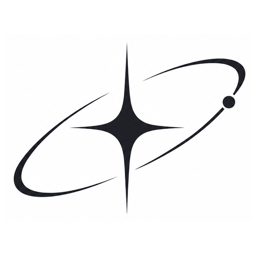
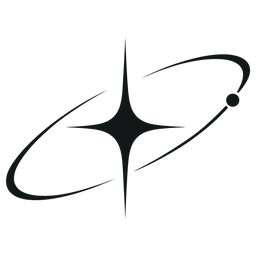
update assets and resolve review comments

Changed region(s): [[0.0, 0.1875, 1.0, 0.8438], [0.4375, 0.1562, 0.5312, 0.4688]]

diff --git a/index.html b/index.html
@@ -7,12 +7,13 @@
   <meta name="description" content="Aethoshi is an independent studio making simple, offline apps for small businesses. Our first app is Parchi, a billing app for clinics, shops and salons.">
   <meta name="theme-color" content="#00716c">
   <link rel="icon" type="image/png" href="assets/favicon.png">
+  <link rel="apple-touch-icon" href="assets/apple-touch-icon.png">
   <link rel="stylesheet" href="assets/style.css">
 </head>
 <body>
   <header class="site">
     <div class="wrap">
-      <a class="brand" href="./"><img class="mark" src="assets/aethoshi-symbol.png" alt="" width="34" height="34"><span class="wordmark">Aethoshi</span></a>
+      <a class="brand" href="./"><picture><source srcset="assets/aethoshi-symbol-light.png" media="(prefers-color-scheme: dark)"><img class="mark" src="assets/aethoshi-symbol.png" alt="" width="34" height="34"></picture><span class="wordmark">Aethoshi</span></a>
       <nav aria-label="Main">
         <a href="./" aria-current="page">Home</a>
         <a href="./#about">About</a>
@@ -32,7 +33,7 @@
         <a class="button" href="parchi/">Meet Parchi</a>
         <a class="button ghost" href="#about">About us</a>
       </div>
-      <div class="hero-logo"><img class="mark" src="assets/aethoshi-logo.png" alt="Aethoshi Studio logo" width="720" height="586"></div>
+      <div class="hero-logo"><picture><source srcset="assets/aethoshi-logo-light.png" media="(prefers-color-scheme: dark)"><img class="mark" src="assets/aethoshi-logo.png" alt="Aethoshi Studio logo" width="900" height="697"></picture></div>
     </div>
   </div>
 
@@ -64,14 +65,18 @@
         have no time to learn complicated software.</p>
 
       <div class="name-box">
-        <img class="mark" src="assets/aethoshi-symbol.png" alt="" width="96" height="96">
+        <picture><source srcset="assets/aethoshi-symbol-light.png" media="(prefers-color-scheme: dark)"><img class="mark" src="assets/aethoshi-symbol.png" alt="" width="96" height="96"></picture>
         <div>
           <p class="word">Aethoshi</p>
-          <p class="muted">The name comes from <em>aether</em>, the old Greek
-            word for the clear, bright air above the clouds. That's how we want
-            our apps to feel: light and clear, and out of your way, so the work
-            gets done and you get back to your customers. The logo is a star on
-            its orbit: one small, steady light in that clear sky.</p>
+          <p class="muted">The name joins two words from two languages.
+            <em>Aether</em> (Greek <span lang="el">αἰθήρ</span>) is the clear,
+            bright sky above the clouds. <em>Hoshi</em> (Japanese
+            <span lang="ja">星</span>) means star. Together they make a star in
+            a clear sky, and the logo shows exactly that: a star on its
+            orbit.</p>
+          <p class="muted">It's how we want our apps to feel: clear and light,
+            out of your way, and steady enough to rely on every day, so the work
+            gets done and you get back to your customers.</p>
         </div>
       </div>
     </section>
@@ -117,7 +122,7 @@
 
   <footer class="site">
     <div class="wrap">
-      <a class="brand" href="./"><img class="mark" src="assets/aethoshi-symbol.png" alt="" width="26" height="26"><span class="wordmark">Aethoshi</span></a>
+      <a class="brand" href="./"><picture><source srcset="assets/aethoshi-symbol-light.png" media="(prefers-color-scheme: dark)"><img class="mark" src="assets/aethoshi-symbol.png" alt="" width="26" height="26"></picture><span class="wordmark">Aethoshi</span></a>
       <nav aria-label="Footer">
         <a href="parchi/">Parchi</a>
         <a href="parchi/privacy/">Privacy policy</a>

diff --git a/assets/style.css b/assets/style.css
@@ -15,6 +15,8 @@
   --accent: #f2a541;
   --shadow: 0 1px 2px rgba(10, 40, 38, 0.06), 0 8px 24px rgba(10, 40, 38, 0.07);
   --radius: 18px;
+  --glow-core: rgba(255, 255, 255, 0.95);
+  --glow-edge: rgba(0, 113, 108, 0.16);
   color-scheme: light;
 }
 
@@ -33,6 +35,8 @@
     --on-brand: #00211f;
     --accent: #f5b766;
     --shadow: 0 1px 2px rgba(0, 0, 0, 0.4), 0 10px 30px rgba(0, 0, 0, 0.35);
+    --glow-core: rgba(98, 217, 209, 0.20);
+    --glow-edge: rgba(98, 217, 209, 0.10);
     color-scheme: dark;
   }
 }
@@ -87,17 +91,30 @@ header.site .wrap {
 .brand img { width: 34px; height: 34px; }
 .wordmark { text-transform: uppercase; letter-spacing: 0.2em; font-weight: 600; }
 
-/* The brand artwork is black on white. Multiply hides the white on light
-   pages; on dark pages it's inverted to white on black, and screen hides
-   the black. contrast() turns the artwork's off-white background (and its
-   compression noise) into pure white, so no faint box shows. */
-.mark { filter: contrast(1.35); mix-blend-mode: multiply; }
-@media (prefers-color-scheme: dark) {
-  .mark { filter: invert(1) contrast(1.35); mix-blend-mode: screen; }
+/* Brand artwork: transparent PNGs, a dark one and a white one; <picture>
+   picks the white one in dark mode. */
+picture { display: inline-flex; flex: none; }
+.hero-logo picture { display: block; }
+/* The large logo floats in a soft glow: a star in a clear sky. */
+.hero-logo {
+  position: relative;
+  justify-self: center;
+  width: min(380px, 80vw);
+  padding: 8% 6%;
+  isolation: isolate;
 }
-
-.hero-logo { justify-self: center; width: min(360px, 80vw); }
-.hero-logo img { width: 100%; display: block; }
+.hero-logo::before {
+  content: "";
+  position: absolute;
+  inset: -6% -2%;
+  z-index: -1;
+  border-radius: 50%;
+  background:
+    radial-gradient(closest-side, var(--glow-core), transparent 70%),
+    radial-gradient(closest-side at 62% 40%, var(--glow-edge), transparent 100%);
+  filter: blur(6px);
+}
+.hero-logo img { width: 100%; height: auto; display: block; position: relative; }
 nav { display: flex; gap: 4px; flex-wrap: wrap; }
 nav a {
   color: var(--muted);
@@ -362,7 +379,7 @@ footer.site nav a { font-size: 0.9rem; padding: 4px 10px; }
   .hero .wrap { padding-top: 48px; padding-bottom: 48px; }
   .hero-grid { grid-template-columns: 1fr; gap: 32px; }
   .hero-art { width: min(150px, 42vw); order: -1; justify-self: start; }
-  .hero-logo { width: min(240px, 64vw); order: -1; justify-self: start; }
+  .hero-logo { width: min(260px, 70vw); order: -1; justify-self: center; }
   main section { padding: 40px 0; }
 }
 @media (max-width: 560px) {

diff --git a/style.css b/style.css
@@ -15,6 +15,8 @@
   --accent: #f2a541;
   --shadow: 0 1px 2px rgba(10, 40, 38, 0.06), 0 8px 24px rgba(10, 40, 38, 0.07);
   --radius: 18px;
+  --glow-core: rgba(255, 255, 255, 0.95);
+  --glow-edge: rgba(0, 113, 108, 0.16);
   color-scheme: light;
 }
 
@@ -33,6 +35,8 @@
     --on-brand: #00211f;
     --accent: #f5b766;
     --shadow: 0 1px 2px rgba(0, 0, 0, 0.4), 0 10px 30px rgba(0, 0, 0, 0.35);
+    --glow-core: rgba(98, 217, 209, 0.20);
+    --glow-edge: rgba(98, 217, 209, 0.10);
     color-scheme: dark;
   }
 }
@@ -87,17 +91,30 @@ header.site .wrap {
 .brand img { width: 34px; height: 34px; }
 .wordmark { text-transform: uppercase; letter-spacing: 0.2em; font-weight: 600; }
 
-/* The brand artwork is black on white. Multiply hides the white on light
-   pages; on dark pages it's inverted to white on black, and screen hides
-   the black. contrast() turns the artwork's off-white background (and its
-   compression noise) into pure white, so no faint box shows. */
-.mark { filter: contrast(1.35); mix-blend-mode: multiply; }
-@media (prefers-color-scheme: dark) {
-  .mark { filter: invert(1) contrast(1.35); mix-blend-mode: screen; }
+/* Brand artwork: transparent PNGs, a dark one and a white one; <picture>
+   picks the white one in dark mode. */
+picture { display: inline-flex; flex: none; }
+.hero-logo picture { display: block; }
+/* The large logo floats in a soft glow: a star in a clear sky. */
+.hero-logo {
+  position: relative;
+  justify-self: center;
+  width: min(380px, 80vw);
+  padding: 8% 6%;
+  isolation: isolate;
 }
-
-.hero-logo { justify-self: center; width: min(360px, 80vw); }
-.hero-logo img { width: 100%; display: block; }
+.hero-logo::before {
+  content: "";
+  position: absolute;
+  inset: -6% -2%;
+  z-index: -1;
+  border-radius: 50%;
+  background:
+    radial-gradient(closest-side, var(--glow-core), transparent 70%),
+    radial-gradient(closest-side at 62% 40%, var(--glow-edge), transparent 100%);
+  filter: blur(6px);
+}
+.hero-logo img { width: 100%; height: auto; display: block; position: relative; }
 nav { display: flex; gap: 4px; flex-wrap: wrap; }
 nav a {
   color: var(--muted);
@@ -362,7 +379,7 @@ footer.site nav a { font-size: 0.9rem; padding: 4px 10px; }
   .hero .wrap { padding-top: 48px; padding-bottom: 48px; }
   .hero-grid { grid-template-columns: 1fr; gap: 32px; }
   .hero-art { width: min(150px, 42vw); order: -1; justify-self: start; }
-  .hero-logo { width: min(240px, 64vw); order: -1; justify-self: start; }
+  .hero-logo { width: min(260px, 70vw); order: -1; justify-self: center; }
   main section { padding: 40px 0; }
 }
 @media (max-width: 560px) {

diff --git a/parchi/privacy/index.html b/parchi/privacy/index.html
@@ -7,12 +7,13 @@
   <meta name="description" content="How the Parchi billing app handles your data: business data stays on your phone; ads are served by Google AdMob.">
   <meta name="theme-color" content="#00716c">
   <link rel="icon" type="image/png" href="../../assets/favicon.png">
+  <link rel="apple-touch-icon" href="../../assets/apple-touch-icon.png">
   <link rel="stylesheet" href="../../assets/style.css">
 </head>
 <body>
   <header class="site">
     <div class="wrap">
-      <a class="brand" href="../../"><img class="mark" src="../../assets/aethoshi-symbol.png" alt="" width="34" height="34"><span class="wordmark">Aethoshi</span></a>
+      <a class="brand" href="../../"><picture><source srcset="../../assets/aethoshi-symbol-light.png" media="(prefers-color-scheme: dark)"><img class="mark" src="../../assets/aethoshi-symbol.png" alt="" width="34" height="34"></picture><span class="wordmark">Aethoshi</span></a>
       <nav aria-label="Main">
         <a href="../../">Home</a>
         <a href="../../#about">About</a>
@@ -160,7 +161,7 @@
 
   <footer class="site">
     <div class="wrap">
-      <a class="brand" href="../../"><img class="mark" src="../../assets/aethoshi-symbol.png" alt="" width="26" height="26"><span class="wordmark">Aethoshi</span></a>
+      <a class="brand" href="../../"><picture><source srcset="../../assets/aethoshi-symbol-light.png" media="(prefers-color-scheme: dark)"><img class="mark" src="../../assets/aethoshi-symbol.png" alt="" width="26" height="26"></picture><span class="wordmark">Aethoshi</span></a>
       <nav aria-label="Footer">
         <a href="../../parchi/">Parchi</a>
         <a href="../../parchi/privacy/">Privacy policy</a>

diff --git a/privacy/index.html b/privacy/index.html
@@ -7,12 +7,13 @@
   <meta name="description" content="How the Parchi billing app handles your data: business data stays on your phone; ads are served by Google AdMob.">
   <meta name="theme-color" content="#00716c">
   <link rel="icon" type="image/png" href="../../assets/favicon.png">
+  <link rel="apple-touch-icon" href="../../assets/apple-touch-icon.png">
   <link rel="stylesheet" href="../../assets/style.css">
 </head>
 <body>
   <header class="site">
     <div class="wrap">
-      <a class="brand" href="../../"><img class="mark" src="../../assets/aethoshi-symbol.png" alt="" width="34" height="34"><span class="wordmark">Aethoshi</span></a>
+      <a class="brand" href="../../"><picture><source srcset="../../assets/aethoshi-symbol-light.png" media="(prefers-color-scheme: dark)"><img class="mark" src="../../assets/aethoshi-symbol.png" alt="" width="34" height="34"></picture><span class="wordmark">Aethoshi</span></a>
       <nav aria-label="Main">
         <a href="../../">Home</a>
         <a href="../../#about">About</a>
@@ -160,7 +161,7 @@
 
   <footer class="site">
     <div class="wrap">
-      <a class="brand" href="../../"><img class="mark" src="../../assets/aethoshi-symbol.png" alt="" width="26" height="26"><span class="wordmark">Aethoshi</span></a>
+      <a class="brand" href="../../"><picture><source srcset="../../assets/aethoshi-symbol-light.png" media="(prefers-color-scheme: dark)"><img class="mark" src="../../assets/aethoshi-symbol.png" alt="" width="26" height="26"></picture><span class="wordmark">Aethoshi</span></a>
       <nav aria-label="Footer">
         <a href="../../parchi/">Parchi</a>
         <a href="../../parchi/privacy/">Privacy policy</a>

diff --git a/parchi/index.html b/parchi/index.html
@@ -7,12 +7,13 @@
   <meta name="description" content="Parchi is a simple billing app for clinics, shops and salons: GST invoices, payments, appointments and reports, with your data kept on your phone.">
   <meta name="theme-color" content="#00716c">
   <link rel="icon" type="image/png" href="../assets/favicon.png">
+  <link rel="apple-touch-icon" href="../assets/apple-touch-icon.png">
   <link rel="stylesheet" href="../assets/style.css">
 </head>
 <body>
   <header class="site">
     <div class="wrap">
-      <a class="brand" href="../"><img class="mark" src="../assets/aethoshi-symbol.png" alt="" width="34" height="34"><span class="wordmark">Aethoshi</span></a>
+      <a class="brand" href="../"><picture><source srcset="../assets/aethoshi-symbol-light.png" media="(prefers-color-scheme: dark)"><img class="mark" src="../assets/aethoshi-symbol.png" alt="" width="34" height="34"></picture><span class="wordmark">Aethoshi</span></a>
       <nav aria-label="Main">
         <a href="../">Home</a>
         <a href="../#about">About</a>
@@ -119,7 +120,7 @@
 
   <footer class="site">
     <div class="wrap">
-      <a class="brand" href="../"><img class="mark" src="../assets/aethoshi-symbol.png" alt="" width="26" height="26"><span class="wordmark">Aethoshi</span></a>
+      <a class="brand" href="../"><picture><source srcset="../assets/aethoshi-symbol-light.png" media="(prefers-color-scheme: dark)"><img class="mark" src="../assets/aethoshi-symbol.png" alt="" width="26" height="26"></picture><span class="wordmark">Aethoshi</span></a>
       <nav aria-label="Footer">
         <a href="../parchi/">Parchi</a>
         <a href="../parchi/privacy/">Privacy policy</a>

diff --git a/404.html b/404.html
@@ -7,12 +7,13 @@
   <meta name="description" content="This page does not exist.">
   <meta name="theme-color" content="#00716c">
   <link rel="icon" type="image/png" href="assets/favicon.png">
+  <link rel="apple-touch-icon" href="assets/apple-touch-icon.png">
   <link rel="stylesheet" href="assets/style.css">
 </head>
 <body>
   <header class="site">
     <div class="wrap">
-      <a class="brand" href="./"><img class="mark" src="assets/aethoshi-symbol.png" alt="" width="34" height="34"><span class="wordmark">Aethoshi</span></a>
+      <a class="brand" href="./"><picture><source srcset="assets/aethoshi-symbol-light.png" media="(prefers-color-scheme: dark)"><img class="mark" src="assets/aethoshi-symbol.png" alt="" width="34" height="34"></picture><span class="wordmark">Aethoshi</span></a>
       <nav aria-label="Main">
         <a href="./">Home</a>
         <a href="./#about">About</a>
@@ -33,7 +34,7 @@
 
   <footer class="site">
     <div class="wrap">
-      <a class="brand" href="./"><img class="mark" src="assets/aethoshi-symbol.png" alt="" width="26" height="26"><span class="wordmark">Aethoshi</span></a>
+      <a class="brand" href="./"><picture><source srcset="assets/aethoshi-symbol-light.png" media="(prefers-color-scheme: dark)"><img class="mark" src="assets/aethoshi-symbol.png" alt="" width="26" height="26"></picture><span class="wordmark">Aethoshi</span></a>
       <nav aria-label="Footer">
         <a href="parchi/">Parchi</a>
         <a href="parchi/privacy/">Privacy policy</a>

diff --git a/README.md b/README.md
@@ -8,21 +8,23 @@ scripts.
 
 | Path | What |
 |---|---|
-| `/` (`index.html`) | Home: our apps, About Aethoshi (the name, what we believe) at `#about`, contact |
+| `/` (`index.html`) | Home: our apps, About Aethoshi (the name: Greek *aether* + Japanese *hoshi*, what we believe) at `#about`, contact |
 | `/parchi/` | About the Parchi billing app: features, data, ads, help |
 | `/parchi/privacy/` | Parchi privacy policy (the URL given to Google Play) |
 | `404.html` | Page shown for unknown URLs |
-| `assets/aethoshi-logo.png` | Full logo (star, orbit, AETHOSHI STUDIO), cut from `aethoshi logos/Aethoshi Cosmic Studio Logo.png` |
-| `assets/aethoshi-symbol.png` | The star-and-orbit symbol alone (header, footer, About) |
-| `assets/favicon.png` | Tab icon (the symbol, 64 px) |
+| `assets/aethoshi-logo.png`, `-light.png` | Full logo (star, orbit, AETHOSHI STUDIO), transparent, in dark ink and in white |
+| `assets/aethoshi-symbol.png`, `-light.png` | The star-and-orbit symbol alone (header, footer, About), dark and white |
+| `assets/favicon.png`, `apple-touch-icon.png` | Tab and home-screen icons: the white symbol on brand teal |
 | `assets/parchi-icon.png` | Parchi's app icon |
 | `assets/style.css` | All styles: colour tokens, light and dark mode, phone layout |
 | `.nojekyll` | Tells GitHub Pages to serve the files as they are |
 
-**The logo is black on white.** Anything with `class="mark"` is blended
-into the page. In light mode it multiplies (white disappears); in dark mode
-it's inverted and screened (black disappears). So the one PNG works on both
-themes. If you replace it, keep it black on a white background.
+**Logos:** each brand image is a `<picture>`. It shows the dark-ink PNG
+on light pages and the white `-light.png` in dark mode. All of them are
+made from `aethoshi logos/Aethoshi Cosmic Studio Logo.png` (black on white)
+by turning the white paper transparent. To remake them after a logo
+change, run the same conversion with Pillow: alpha = ink darkness, white →
+transparent. Then crop the full logo, and the symbol above the wordmark.
 
 All links are **relative** (`assets/…`, `../assets/…`), so the pages work
 at any address and when opened straight from disk.
